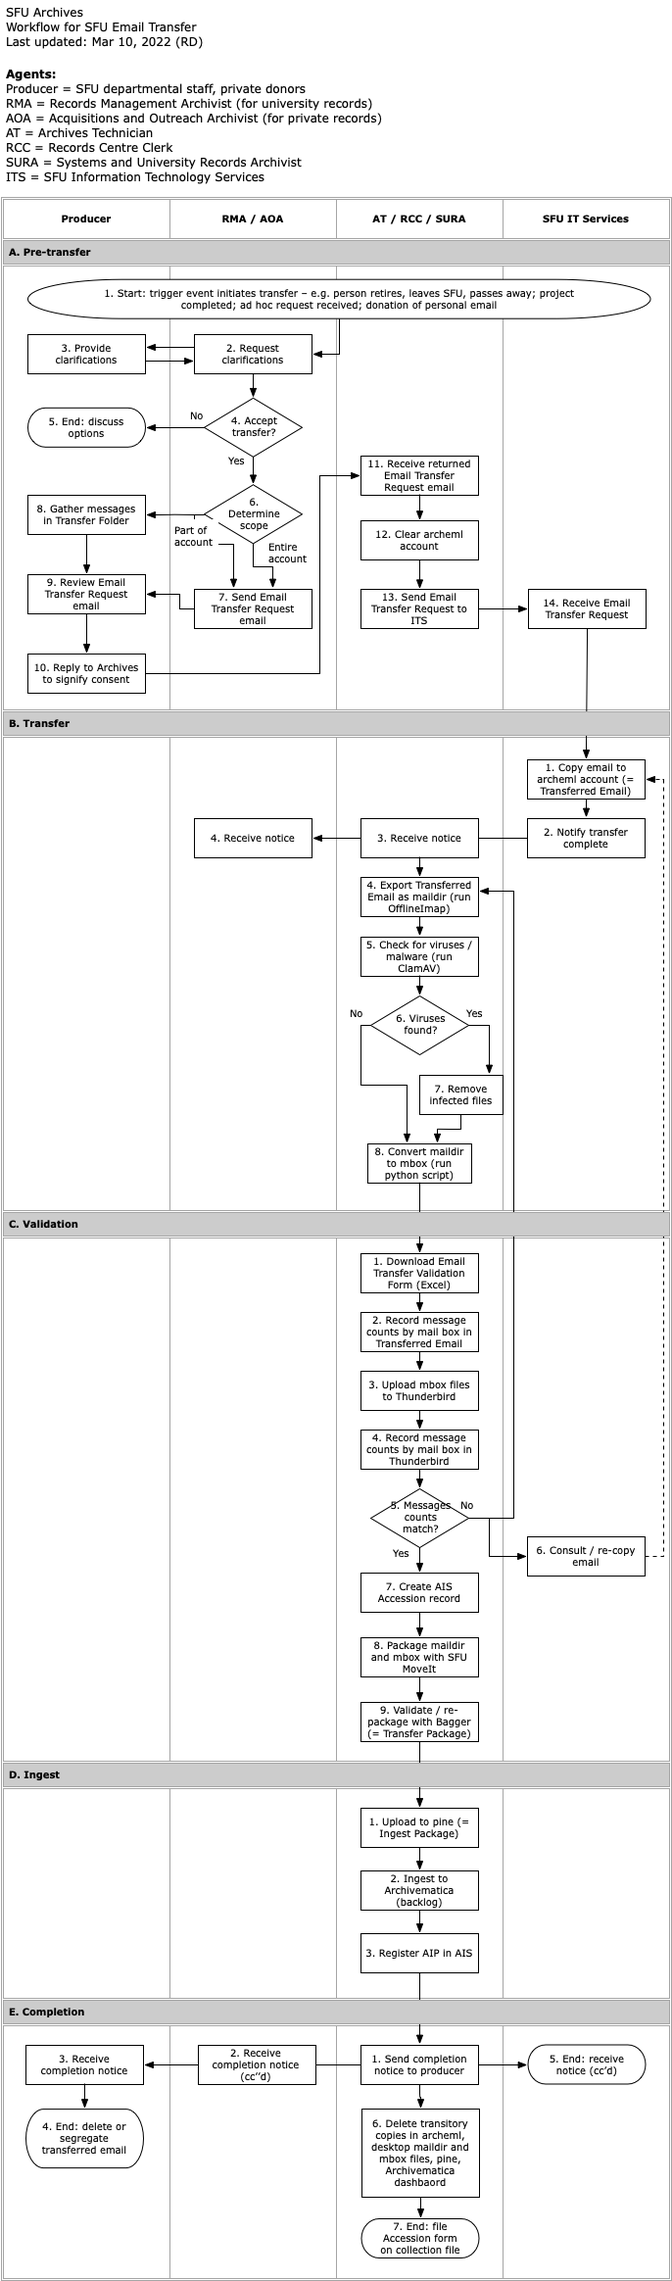
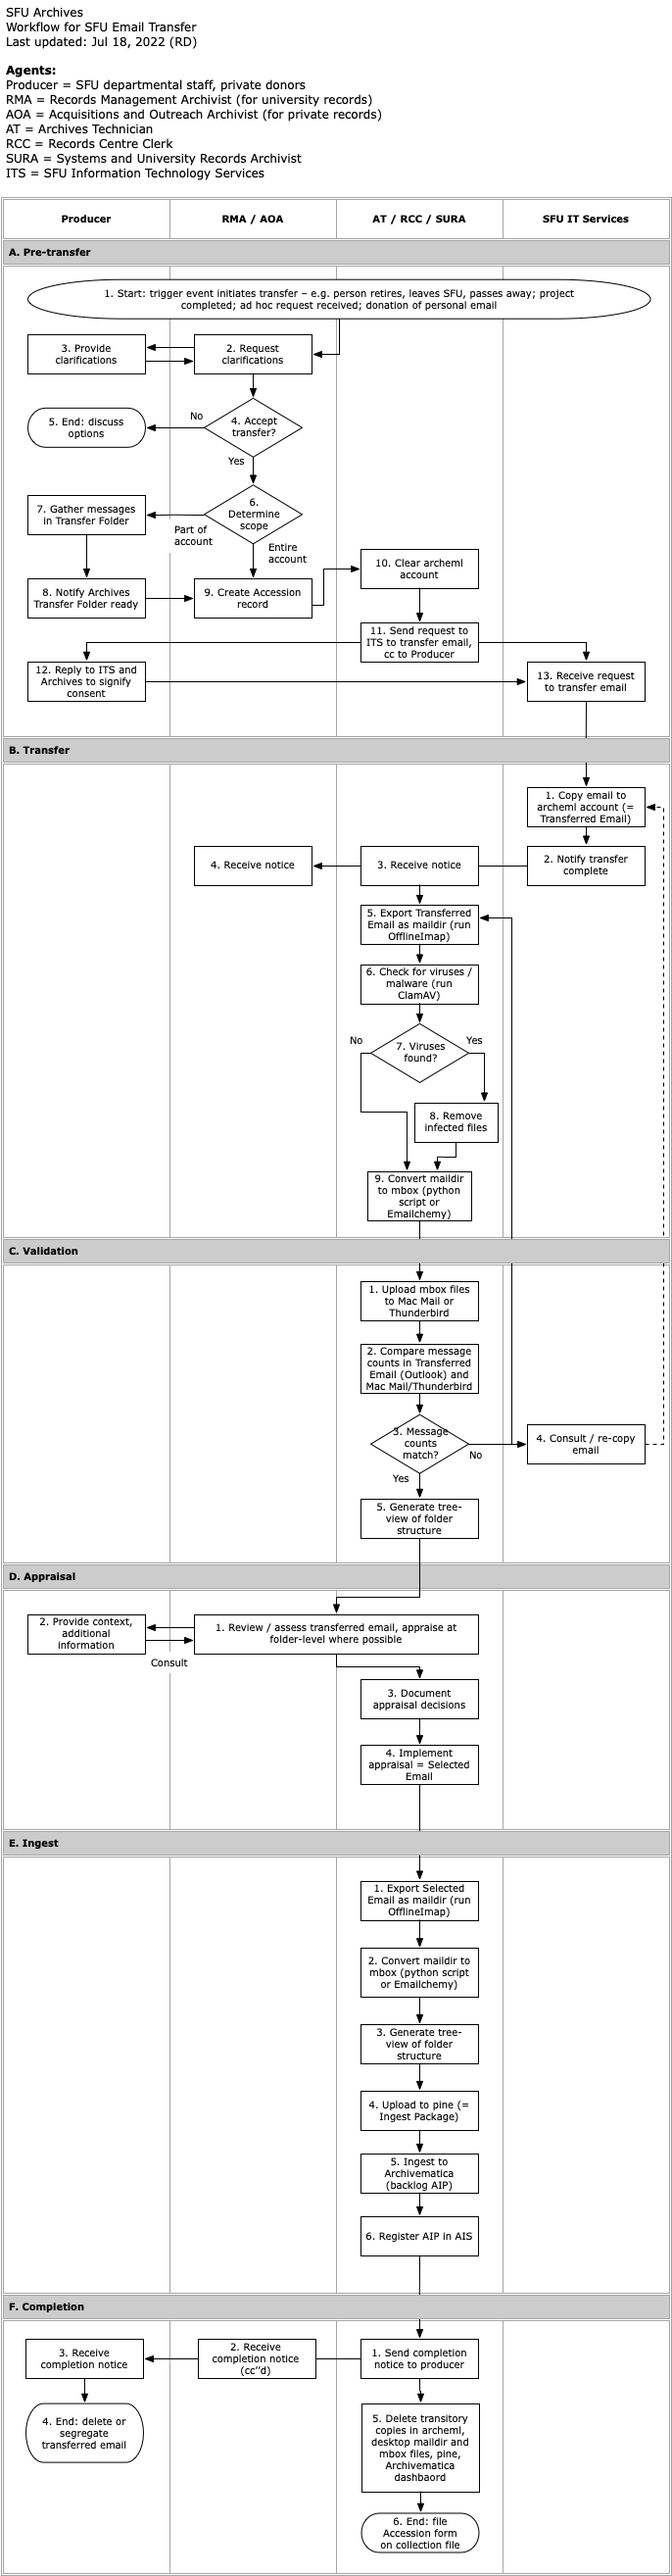
revisions

Changed region(s): [[0.0, 0.0, 1.0, 1.0]]

diff --git a/account-owners/overview.md b/account-owners/overview.md
@@ -7,6 +7,8 @@
 - [What email can be transfered?](#what-email-can-be-transferred)
 - [Implications of transfer](#implications-of-transfer)
 - [Transfer procedures](#transfer-procedures)
+ - [Procedures for SFU email](transfer-procedures-for-sfu-email.md).
+ - [Procedures for Gmail](transfer-procedures-for-gmail.md)
 
 ## What email can be transferred?
 SFU Archives is selective in its acquisition of email: not all email can or should be permanently preserved. Consult with an archivist to determine whether or not your email is suitable for long-term preservation and if so, which parts of it.
@@ -14,7 +16,7 @@ SFU Archives is selective in its acquisition of email: not all email can or shou
 In general:
 - Emails made or received in your capacity as an SFU employee engaged in university business are university records and may be transferred to the Archives under an applicable [Records Retention Schedule and Disposal Authority (RRSDA)](http://www.sfu.ca/archives2/dur/rrsdas.html).
 
-- Emails as personal correspondence may be transferred to the Archives under a [Donation Agreement](http://www.sfu.ca/archives/for-donors/donations.html).
+- Emails made or received as personal correspondence may be transferred to the Archives under a [Donation Agreement](http://www.sfu.ca/archives/for-donors/donations.html).
 
 An archivist will advise you on how to proceed. Note that the transfer process currently captures only email messages and attachments; it **does not** capture other records typically included in email platforms, e.g. calendars, address books, task lists.
 
@@ -26,10 +28,10 @@ Email transferred to Archives is stored offline, outside any active email system
 **If you require continuing access to some or all of the email after transfer do not delete it from your active email account. Consult an archivist to determine what is most appropriate for your own circumstances.**
 
 ## Transfer procedures
-Transfer procedures are different depending on whether you are transferring SFU or non-SFU email. At present, the only non-SFU email the Archives can acquire is Gmail.
+Transfer procedures are different depending on whether you are transferring SFU or non-SFU email. At present, the only non-SFU email the Archives has acquired is Gmail.
 - [Procedures for SFU email](transfer-procedures-for-sfu-email.md).
 - [Procedures for Gmail](transfer-procedures-for-gmail.md)
 
 ***
 
-###### Last updated: Apr 20, 2022
+###### Last updated: Jul 18, 2022

diff --git a/account-owners/transfer-procedures-for-sfu-email.md b/account-owners/transfer-procedures-for-sfu-email.md
@@ -2,17 +2,29 @@
 ###### [1. Before you start](./01-before-you-start.md) `|` 2. SFU accounts `|` [3. Non-SFU accounts](./03-non-sfu-accounts.md) `|` [4. After transfer](./04-after-transfer.md) `|` [5. Checklist](./05-checklist.md)
 
 # 2. SFU email accounts
-This section describes how to transfer email from an SFU account.
+This section describes how to transfer email from an SFU account. In the [Workflow Diagram](images/transfer-workflow.png), see the actions in the the `Producer` column.
 
 **Contents**
-- [2.1 Set up a transfer folder](#21-set-up-a-transfer-folder)
-- [2.2 Add permissions to the Inbox](#22-add-permissions-to-the-inbox)
-- [2.3 Add permissions to the transfer folder(s)](#23-add-permissions-to-the-transfer-folders)
-- [2.4 Validate transfer](#24-validate-transfer)
-- [2.5 Remove permissions](#25-remove-permissions)
+- [Initiate request to transfer](#initiate-request-to-transfer)
+- [Determine scope of transfer](#determine-scope-of-transfer)
+- [Create a Transfer Folder](#create-a-transfer-folder)
+- [Notify Archives Transfer Folder ready](#notify-archives-transfer-folder-ready)
+- [Provide consent](#provide-consent)
 
-## 2.1 Set up a transfer folder
-<img align="right" width="350" src="../../images/transfer-folder.png">
+## Initiate request to transfer
+
+
+## Determine scope of transfer
+
+
+## Create a Transfer Folder
+
+
+## Notify Archives Transfer Folder ready
+
+
+## Provide consent
+
 
 The Archives need access to a shared folder in your account in order to transfer email. The Archives works on Mac computers, and Outlook for Mac requires shared folders to be nested under the owner's `Inbox`.
 
